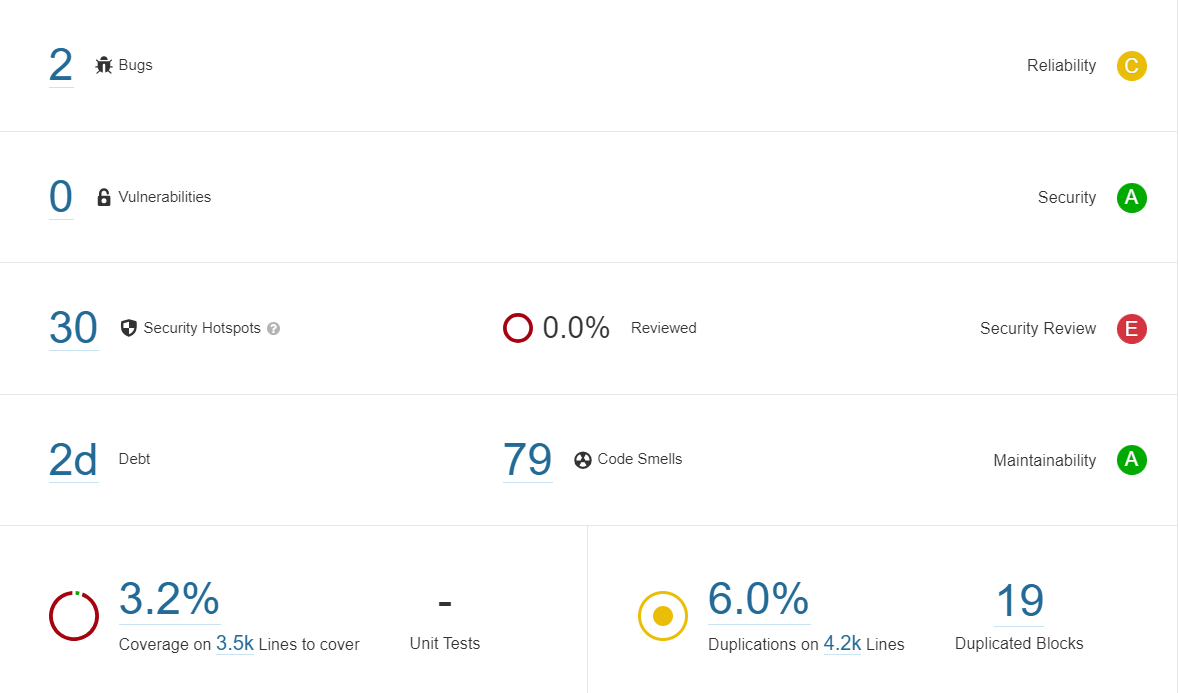
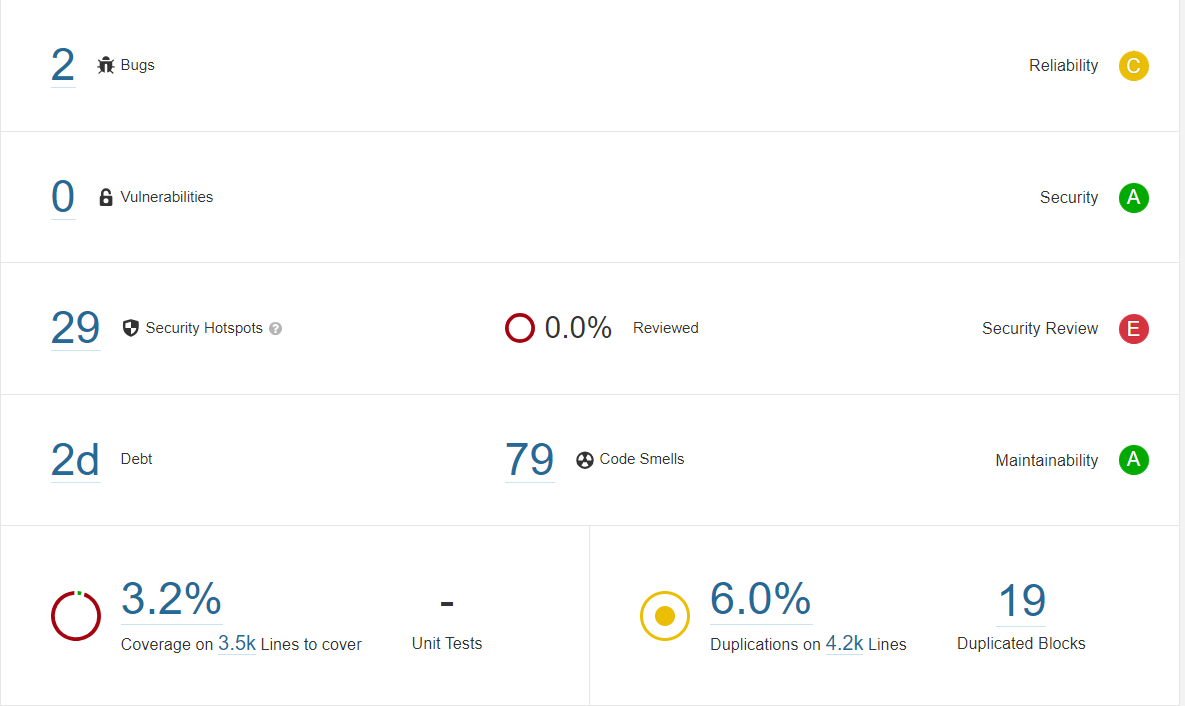
docs: Updated quality assurance and security concern reports for sprint4

diff --git a/docs/development.md b/docs/development.md
@@ -101,42 +101,6 @@ After scanning the files, you can check the results on the `Sonarqube` interface
 
 ![image](../docs/images/sonarqube_results.png)
 
-## Security concerns
-
-As of the end of Sprint 2 (16/11/2023), there are no security concerns to be tackled. The project is mostly self-contained and doesn't need to handle any type of sensitive information or possible data leakage. However, with _Sonarqube_, possible security vulnerabilities are scanned every time changes to the project's code occur, and this, this section is subject to change as more features are implemented.
-
-### SonarQube - Latest scan on branch `main`
-
-The Sonar scanner indicates no vulnerabilities, providing an A-grade security rating. Nonetheless, it highlights 25 security hotspots, which, while not categorized as vulnerabilities, are flagged as security concerns requiring manual assessment.
-
-
-## Quality assurance
-
-Continuous Integration (CI) tools are currently set in place to ensure correct codebase management and consistency. In terms of static analysis, code is scanned using linters everytime a PR wants to commit changed into the _main_ branch. Furthermore, a [SonarQube](https://www.sonarsource.com/products/sonarqube/?gads_campaign=SQ-Mroi-PMax&gads_ad_group=Global&gads_keyword=&gad_source=1&gclid=CjwKCAiAu9yqBhBmEiwAHTx5pxnFfXXnEDXFcodcgZRO5zP1ALPlJ4zaqIEvecU6Sz8-9v2VsiagzxoCHjUQAvD_BwE) environment was setup, giving us access to more code analysis and extensive reports about bugs, security and vulnerabilities. 
-
-For the linters we also use [Pylint](https://pylint.pycqa.org/en/latest/user_guide/usage/run.html), which checks the code structure of the custom DINASORE blocks. This linter was altered so it could accept the default structure of DINASORE blocks without raising any exceptions.
-![image](../docs/images/configuration_linter.png)
-Finally, the used package manager was configured using both [Pytest](https://docs.pytest.org/en/7.4.x/) and [Conda](https://docs.conda.io/en/latest/). The **environment.yml** file shows the several dependencies that will be used by Conda.
-![image](../docs/images/environment_yml.png)
-In the worflow .yml file, meanwhile, it was necessary to install all the project requirements, otherwise they wouldn't be recognised.
-![image](../docs/images/configuration_manager.png)
-
-Moreover, a [Bandit](https://bandit.readthedocs.io/en/latest/config.html#bandit-settings) workflow was implemented for different types of tests. The several available tests are [here](https://bandit.readthedocs.io/en/latest/plugins/index.html). The workflow was configured to skip the default code of the chosen tecnologies, as well as irrelevant tests for our application, as we can see in the following files (.bandit and bandit.yaml, respectively):
-
-![.bandit](../docs/images/configuration_bandit_ini.png)
-
-![bandit_yaml](../docs/images/configuration_bandit_skip.png)
-
-Bandit workflow configuration file:
-
-![bandit_yml](../docs/images/configuration_bandit.png)
-
-
-### SonarQube - Latest scan on branch `main`
-
-The Sonar scanner reports a 6.2% code duplication. Additionally, it falsely suggests a 0.0% code coverage, despite the presence of tests in the project. This discrepancy arises from the scanner's current lack of configuration to detect coverage, an issue to be solved in the next sprint. Regarding code smells, the scanner identifies 79 instances but assigns an A-grade rating for maintainability. In terms of reliability, the scanner points out 2 bugs.
-
-
 ## Metrics (10/10)
 For every sprint, the following process metrics are being recorded:
 

diff --git a/docs/development/quality_assurance.md b/docs/development/quality_assurance.md
@@ -3,12 +3,29 @@
 Continuous Integration (CI) tools are currently set in place to ensure correct codebase management and consistency. In terms of static analysis, code is scanned using linters everytime a PR wants to commit changed into the _main_ branch. Furthermore, a [SonarQube](https://www.sonarsource.com/products/sonarqube/?gads_campaign=SQ-Mroi-PMax&gads_ad_group=Global&gads_keyword=&gad_source=1&gclid=CjwKCAiAu9yqBhBmEiwAHTx5pxnFfXXnEDXFcodcgZRO5zP1ALPlJ4zaqIEvecU6Sz8-9v2VsiagzxoCHjUQAvD_BwE) environment was setup, giving us access to more code analysis and extensive reports about bugs, security and vulnerabilities.
 The Continuous Integration linter is complaining, however, about some default formatting of the DINASORE blocks (source code for the DINASORE technology, which should not be changed), which can cause problems in the future.
 
+For the linters we also use [Pylint](https://pylint.pycqa.org/en/latest/user_guide/usage/run.html), which checks the code structure of the custom DINASORE blocks. This linter was altered so it could accept the default structure of DINASORE blocks without raising any exceptions.
+![image](../images/configuration_linter.png)
+Finally, the used package manager was configured using both [Pytest](https://docs.pytest.org/en/7.4.x/) and [Conda](https://docs.conda.io/en/latest/). The **environment.yml** file shows the several dependencies that will be used by Conda.
+![image](../images/environment_yml.png)
+In the worflow .yml file, meanwhile, it was necessary to install all the project requirements, otherwise they wouldn't be recognised.
+![image](../images/configuration_manager.png)
+
+Moreover, a [Bandit](https://bandit.readthedocs.io/en/latest/config.html#bandit-settings) workflow was implemented for different types of tests. The several available tests are [here](https://bandit.readthedocs.io/en/latest/plugins/index.html). The workflow was configured to skip the default code of the chosen tecnologies, as well as irrelevant tests for our application, as we can see in the following files (.bandit and bandit.yaml, respectively):
+
+![.bandit](../images/configuration_bandit_ini.png)
+
+![bandit_yaml](../images/configuration_bandit_skip.png)
+
+Bandit workflow configuration file:
+
+![bandit_yml](../images/configuration_bandit.png)
+
 ## SonarQube - Latest scan on branch `main`
 
 The Sonar scanner reports a 6.0% code duplication. Additionally, the coverage report reveals a 3.2% code coverage. Regarding code smells, the scanner identifies 79 instances but assigns an A-grade rating for maintainability. In terms of reliability, the scanner points out 2 bugs.
 
 ![SonarQube Quality Rating](../images/sonarqube_quality.png)
 
-Regarding code coverage, a lot of components that already came integrated with the DINASORE technology are not covered by tests. This is because the DINASORE technology is not supposed to be changed. If we only consider the implemented components, the coverage increases to 20.3%. The other statistics also improve.
+Regarding code coverage, a lot of components that already came integrated with the DINASORE technology are not covered by tests. This is because the DINASORE technology is not supposed to be changed. If we only consider the implemented components, the coverage increases to 19.0%. The other statistics also improve.
 
 ![SonarQube Quality Rating](../images/sonarqube_quality_2.png)

diff --git a/docs/development/security_concerns.md b/docs/development/security_concerns.md
@@ -1,9 +1,9 @@
 # Security Concerns
 
-As of the end of Sprint 3 (01/12/2023), there are no security concerns to be tackled. The project is mostly self-contained and doesn't need to handle any type of sensitive information or possible data leakage. However, with _Sonarqube_, possible security vulnerabilities are scanned every time changes to the project's code occur, and this, this section is subject to change as more features are implemented.
+As of the end of Sprint 4 (19/12/2023), there are no security concerns to be tackled. The project is mostly self-contained and doesn't need to handle any type of sensitive information or possible data leakage. However, with _Sonarqube_, possible security vulnerabilities are scanned every time changes to the project's code occur, and this, this section is subject to change as more features are implemented.
 
 ## SonarQube - Latest scan on branch `main` 
 
-The Sonar scanner indicates no vulnerabilities, providing an A-grade security rating. Nonetheless, it highlights 30 security hotspots, which, while not categorized as vulnerabilities, are flagged as security concerns requiring manual assessment.
+The Sonar scanner indicates no vulnerabilities, providing an A-grade security rating. Nonetheless, it highlights 29 security hotspots, which, while not categorized as vulnerabilities, are flagged as security concerns requiring manual assessment.
 
 ![SonarQube Security Rating](../images/sonarqube_security.png)
